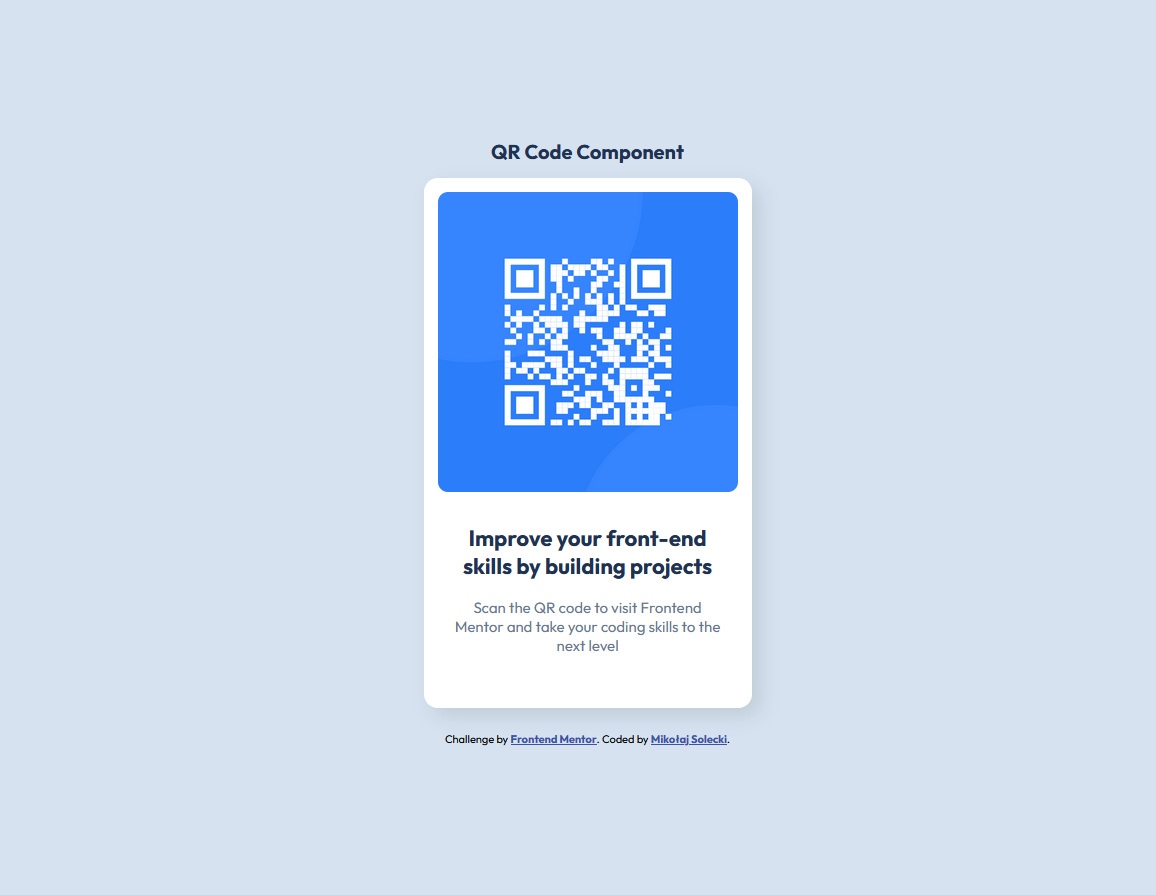
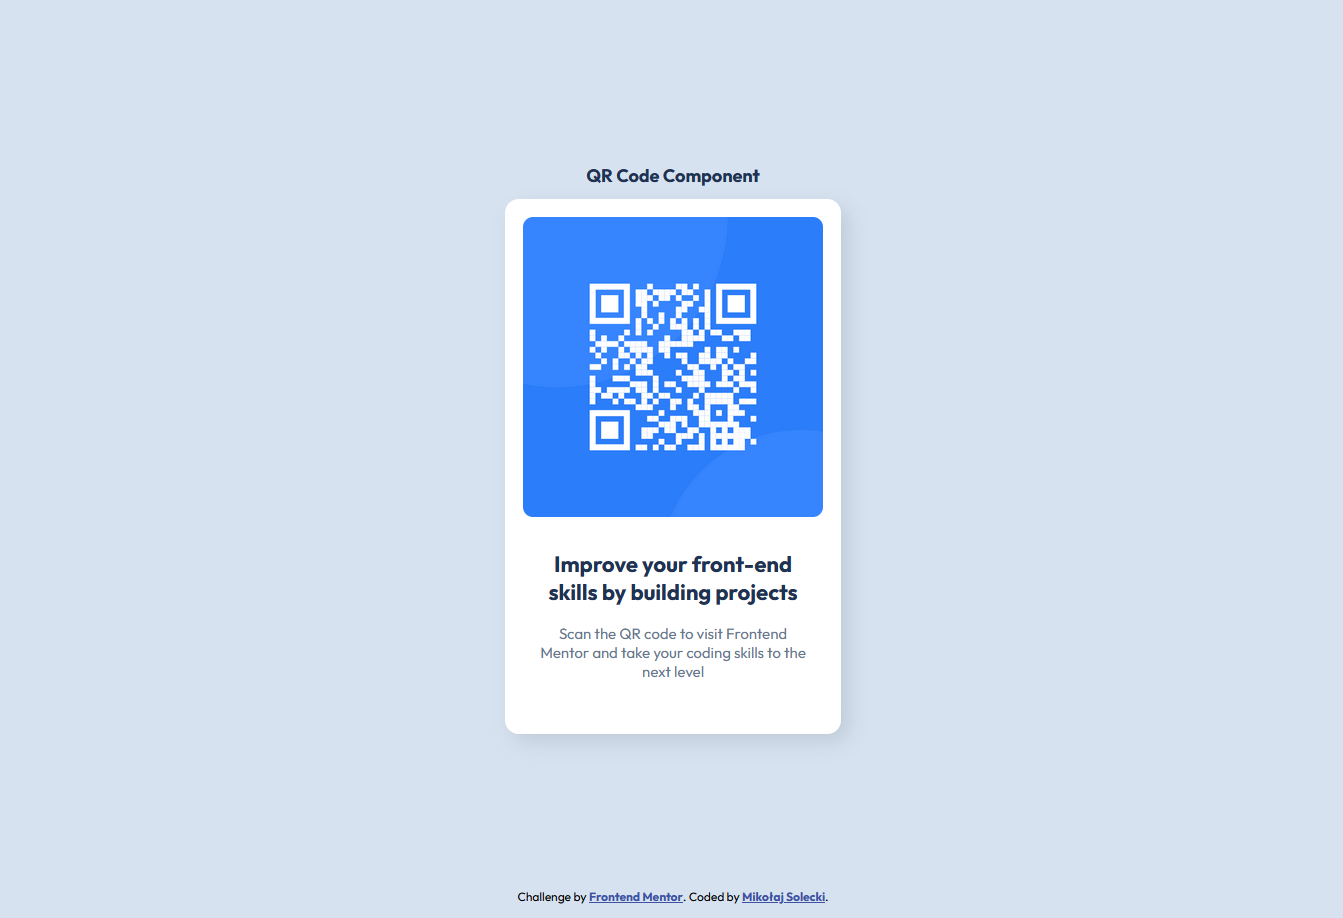
Changed footer position

Changed region(s): [[0.3426, 0.1508, 0.654, 0.8447], [0.3737, 0.9654, 0.6228, 0.9955]]

diff --git a/index.html b/index.html
@@ -31,7 +31,7 @@
       border-radius: 10px;
     }
     h1 {
-      font-size: 20px;
+      font-size: 18px;
       font-weight: 700;
       color: hsl(218, 44%, 22%);
     }
@@ -48,6 +48,10 @@
     .text {
       padding: 10px;
       margin-bottom: 10px;
+    }
+    footer {
+      position: absolute;
+      bottom: 14px;
     }
     .attribution {
       font-size: 12px;
